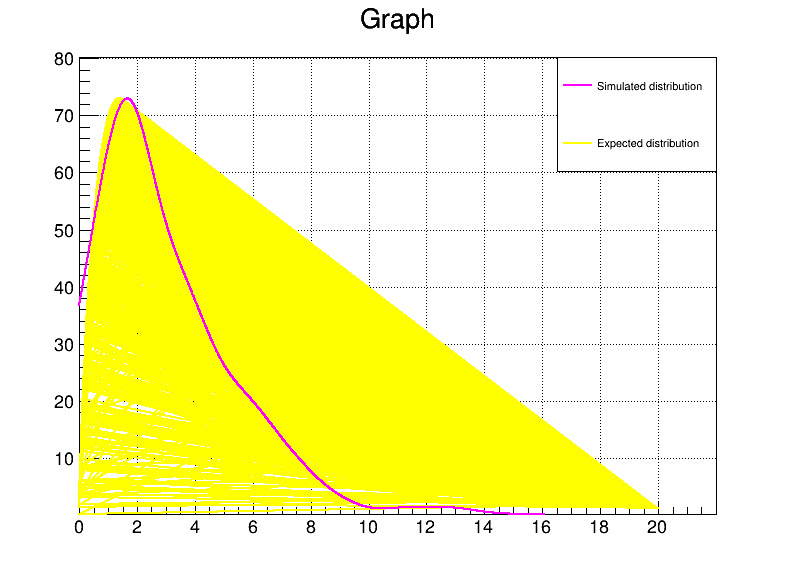
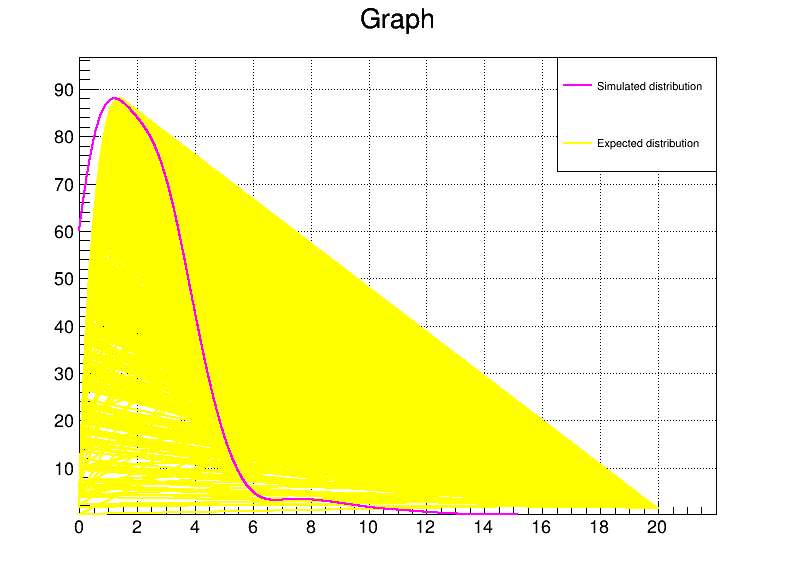
new commit

diff --git a/time_distribution_graph.C b/time_distribution_graph.C
@@ -221,7 +221,7 @@ int main() {
         "T_smear_5275_2800.txt",
         "T_smear_67_150.txt", "T_smear_86_22.txt",
         "T_smear_4000.txt","T_smear_723.txt","T_smear_528.txt","T_smear_26539.txt", "T_smear_150.txt", "T_smear_12392.txt","T_smear_1000.txt", "T_smear_1457.txt","T_smear_16573.txt","T_smear_29824.txt", "T_smear_31027.txt","T_smear_34741.txt"};*/
-  std::vector<std::string> filenames = { "T_smear_1.txt", "T_smear_3.txt","T_smear_5.txt", "T_smear_6.txt", "T_smear_7.txt", "T_smear_8.txt", "T_smear_10.txt", "T_smear_11.txt", "T_smear_12.txt", "T_smear_13.txt"
+  std::vector<std::string> filenames = { "T_smear_1.txt",  "T_smear_2.txt","T_smear_3.txt","T_smear_5.txt", "T_smear_6.txt", "T_smear_7.txt", "T_smear_8.txt", "T_smear_10.txt", "T_smear_11.txt", "T_smear_12.txt", "T_smear_13.txt"
         };
 
     std::vector<double> N;
@@ -274,8 +274,8 @@ int main() {
     legend->Draw();
 
     // Esegui il fitting dei dati
-    TF1 *fit_low = new TF1("fit_low", "pol2", 0, 16); // Fitting con un polinomio di terzo grado
-    TF1 *fit_high = new TF1("fit_high", "pol2", 0, 16);
+    TF1 *fit_low = new TF1("fit_low", "pol3", 0, 16); // Fitting con un polinomio di terzo grado
+    TF1 *fit_high = new TF1("fit_high", "pol3", 0, 16);
 
     gr_low->Fit(fit_low);
     gr_high->Fit(fit_high);
@@ -290,7 +290,7 @@ int main() {
     fit_high->Draw("same");
 
     // Salva il grafico in un file
-    c1->SaveAs("N_vs_ToT_fit_file4.png");
+    c1->SaveAs("N_vs_ToT_fit_file5.png");
 
     // Pulizia della memoria
     delete gr_low;

diff --git a/time_distribution_true.C b/time_distribution_true.C
@@ -63,7 +63,7 @@ auto get_time_pe_max_cell = [](ROOT::VecOps::RVec<dg_cell>& cells) {
         for (const auto& p : c.ps1) {
 	  pe_count = p.photo_el.size();
 	  std::cout<<pe_count<<std::endl;
-	  if (pe_count>max_pe_count) {
+	  if (pe_count>80 and pe_count<90) {
             max_pe_count = pe_count;
 	    max_pe_cell_index = c.id;
 	  }
@@ -71,7 +71,7 @@ auto get_time_pe_max_cell = [](ROOT::VecOps::RVec<dg_cell>& cells) {
   }
     std::cout<<"max:"<<max_pe_cell_index<<std::endl;
     // Open a file for writing (overwriting the file if it already exists)
-    std::ofstream outFile("T_smear_1.txt", std::ios::trunc);
+    std::ofstream outFile("T_smear_2.txt", std::ios::trunc);
     // Check if the file is opened successfully
     if (!outFile.is_open()) {
         std::cerr << "Error opening file for writing!" << std::endl;
